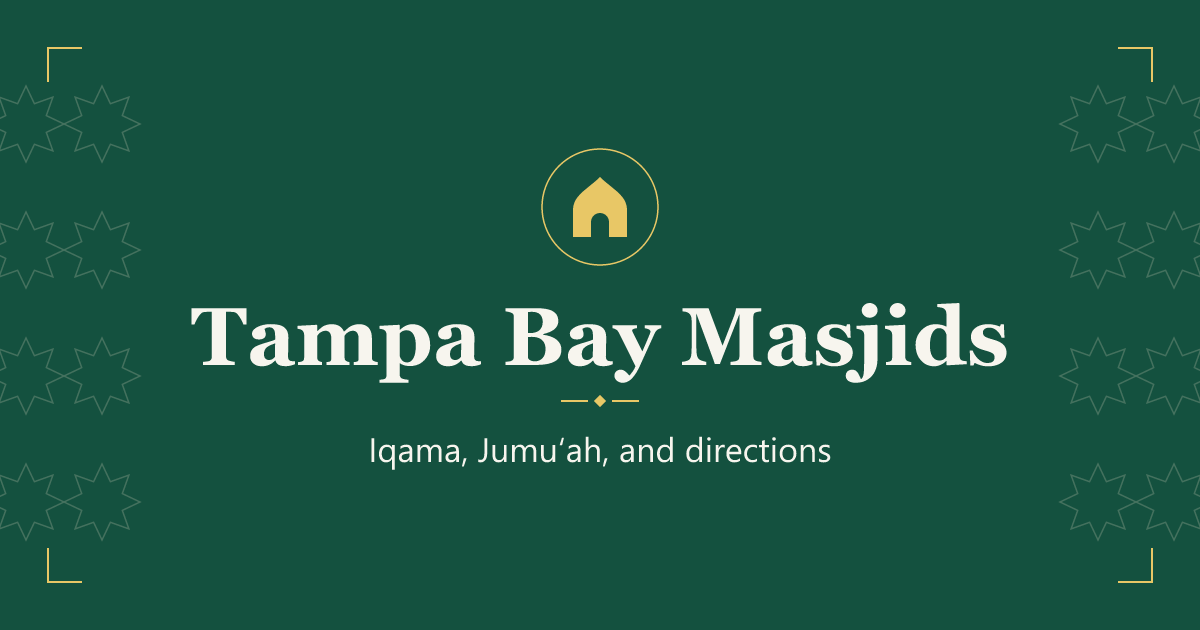
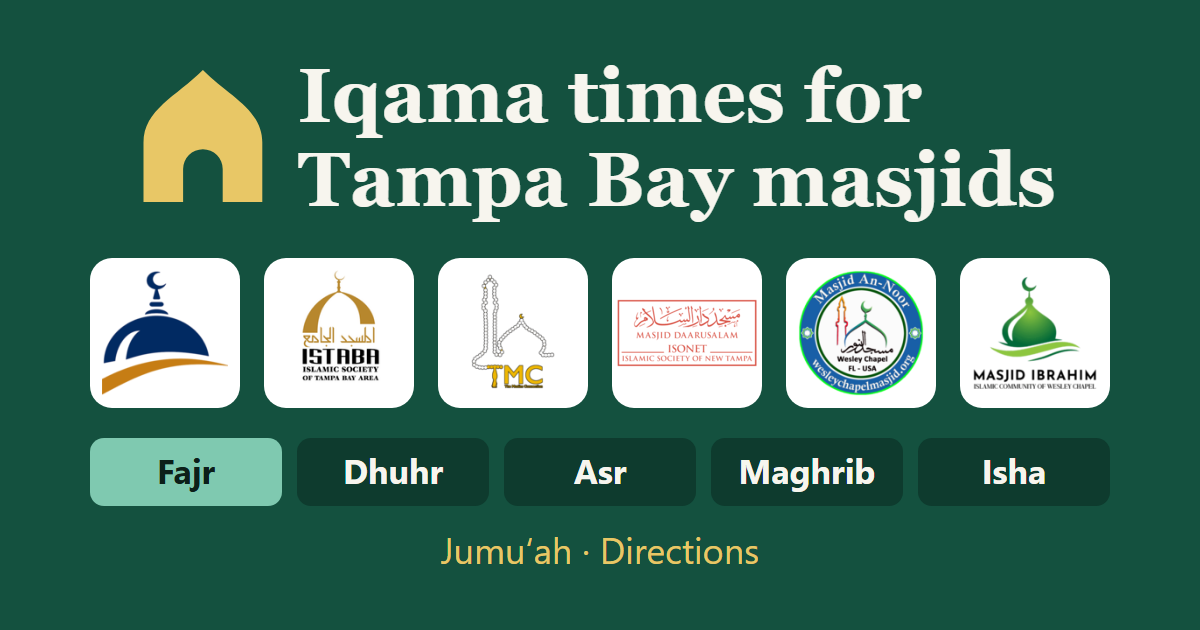
Show prayer times content on the share card
The old card repeated the site name that link previews already print under
the image. The new one leads with what the site offers, masjid logos and
the five prayer names, with no times. The image URL gets ?v=2 so link
previews fetch it again.

diff --git a/DESIGN.md b/DESIGN.md
@@ -104,8 +104,9 @@ quiet so nine masjids and five times can be compared at a glance. The site follo
 - Use the pointed arch in [the favicon](public/favicon.svg) as the brand mark. Keep the gold silhouette on masjid green and give it clear space. Pair it with the full name “Tampa Bay Masjids” where space allows.
 - Use masjid green and parchment as the main pair. Lamp gold can frame the mark and divide text on branded graphics. On the site, follow the control and status colors below.
 - Use Georgia bold for the name on branded graphics and system sans-serif for supporting text and the interface. Use “Iqama, Jumu‘ah, and directions” when a short description helps identify the directory.
-- The [share card source](docs/social-preview.svg) uses a quiet geometric border and serif title inspired by Islam with Ayoub. Keep ornament at the edges and leave the name and description in an open central area.
-- Edit the SVG and export it in VectorCraft at 1× as [the 1200 × 630 PNG](public/social-preview.png). The shared page head uses that PNG for Open Graph and X cards.
+- The [share card source](docs/social-preview.svg) shows what the directory offers: a serif headline, masjid logos, the five prayer names, then Jumu‘ah and directions. Show no times, because link previews outlive them. Keep the top-right corner clear for Facebook's info button, and keep text large enough to read on a phone.
+- The logos are embedded in the SVG as base64 copies of [the masjid logos](public/masjid-logos/). Update the card when a listed logo changes.
+- Edit the SVG and screenshot it at 1200 × 630, 1× scale, in a headless browser (Edge or Chrome, on Windows for Georgia and Segoe UI) as [the share PNG](public/social-preview.png). The shared page head uses that PNG for Open Graph and X cards; raise its `?v=` number there whenever the PNG changes.
 
 ## Colors
 
